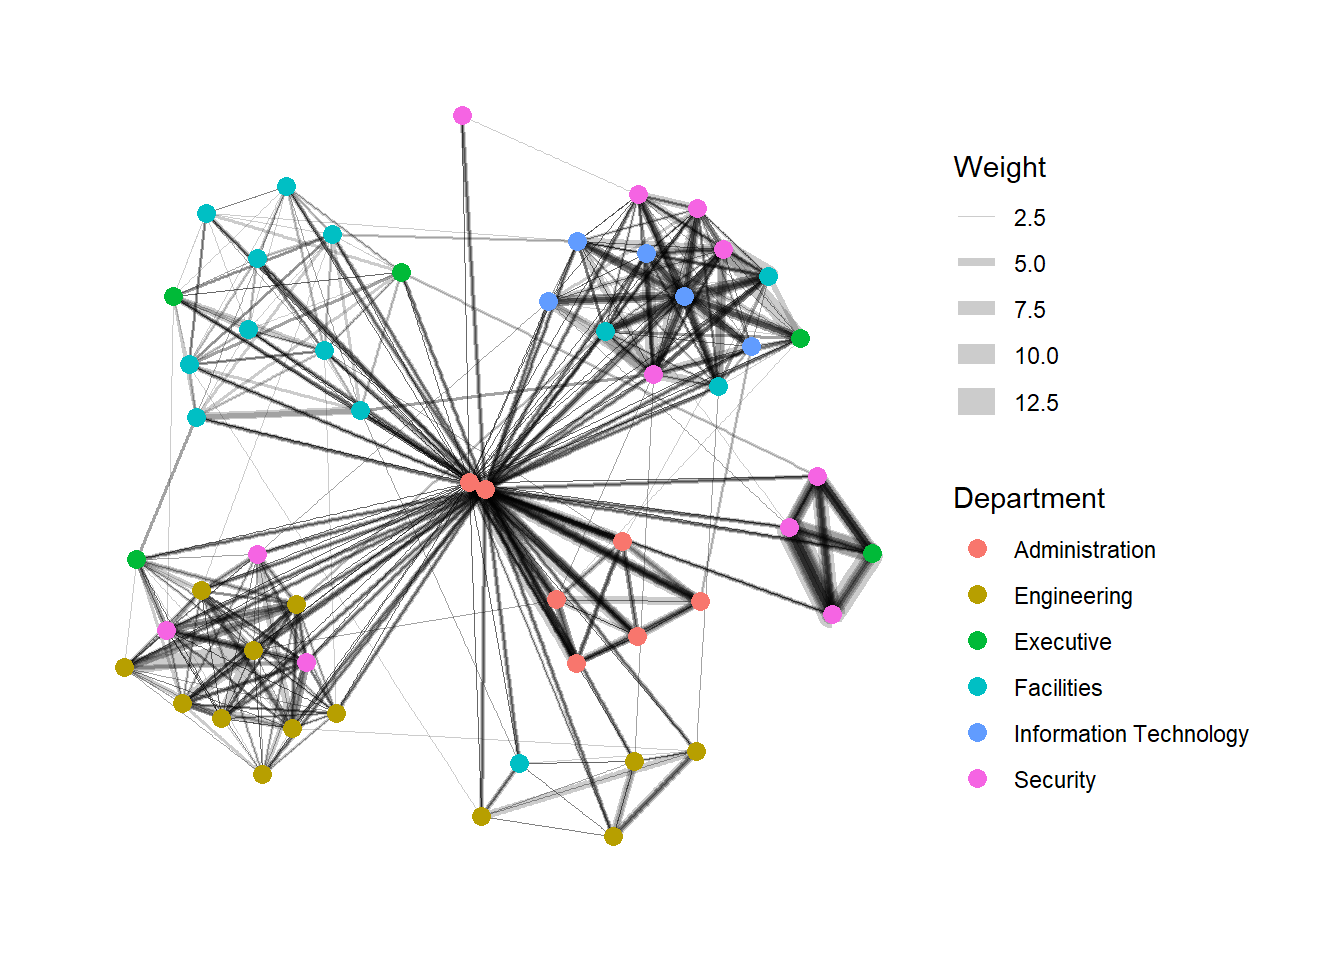
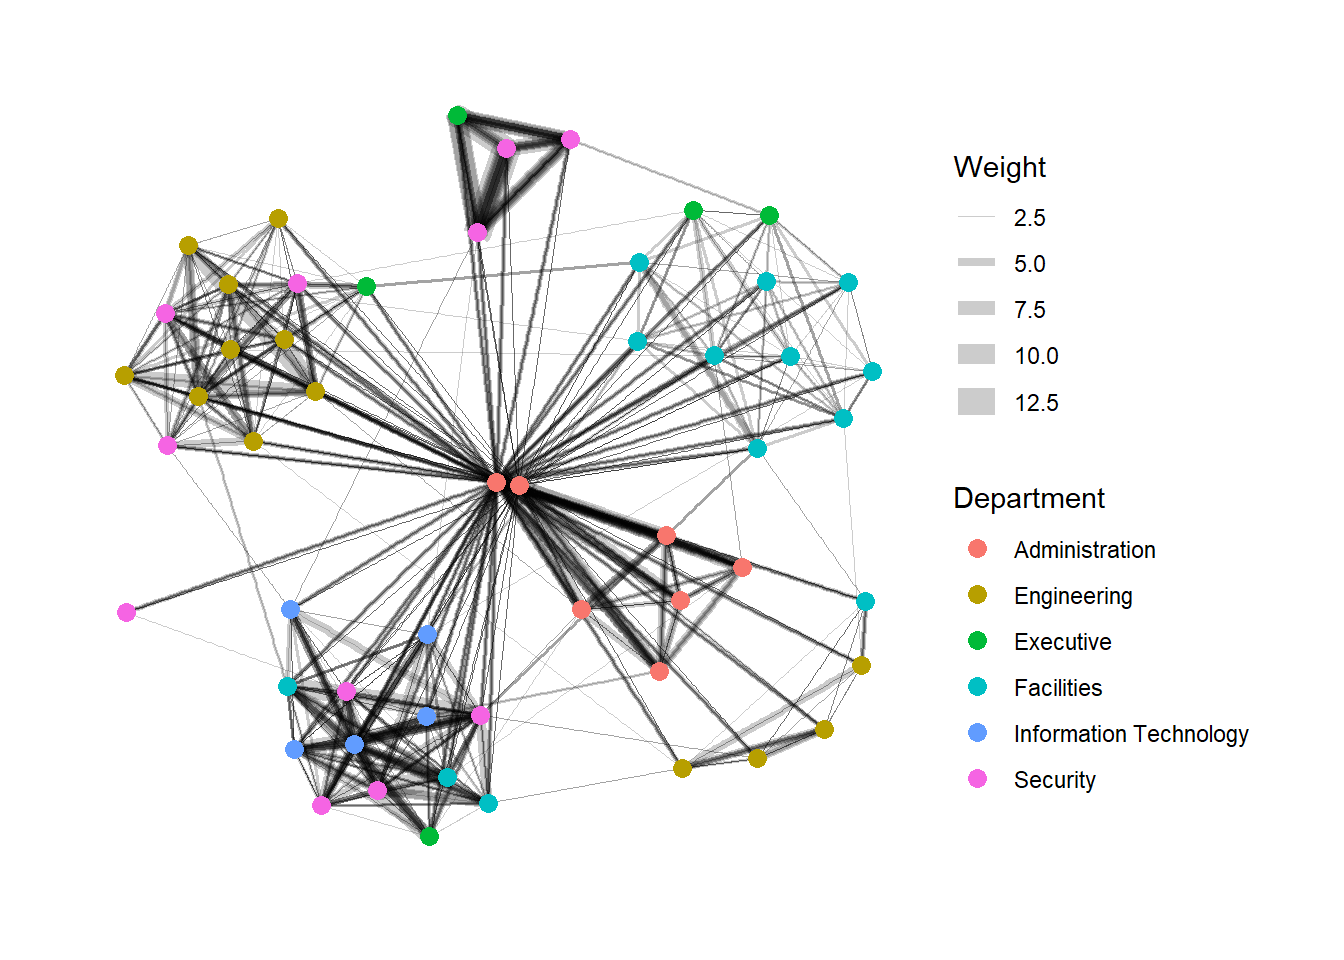
Amendment to In-class Exercise 8.

Changed region(s): [[0.0625, 0.0938, 0.6562, 0.875]]

diff --git a/_site/In-class_Ex/In-class_Ex08/In-class_Ex08.html b/_site/In-class_Ex/In-class_Ex08/In-class_Ex08.html
@@ -9,7 +9,7 @@
 <meta name="author" content="farrahmf">
 <meta name="dcterms.date" content="2023-03-11">
 
-<title>ISSS608-VAA - In-class Exercise 8</title>
+<title>ISSS608-VAA - Network Graphing</title>
 <style>
 code{white-space: pre-wrap;}
 span.smallcaps{font-variant: small-caps;}
@@ -288,7 +288,7 @@ code span.wa { color: #60a0b0; font-weight: bold; font-style: italic; } /* Warni
 
 <header id="title-block-header" class="quarto-title-block default">
 <div class="quarto-title">
-<h1 class="title">In-class Exercise 8</h1>
+<h1 class="title">Network Graphing</h1>
 </div>
 
 
@@ -504,8 +504,8 @@ Plotting the network graph:</p>
 <span id="cb13-7"><a href="#cb13-7" aria-hidden="true" tabindex="-1"></a>  <span class="fu">visLegend</span>() <span class="sc">%&gt;%</span></span>
 <span id="cb13-8"><a href="#cb13-8" aria-hidden="true" tabindex="-1"></a>  <span class="fu">visLayout</span>(<span class="at">randomSeed =</span> <span class="dv">123</span>)</span></code><button title="Copy to Clipboard" class="code-copy-button"><i class="bi"></i></button></pre></div>
 <div class="cell-output-display">
-<div id="htmlwidget-ef78fa575a77f785eb4f" style="width:100%;height:464px;" class="visNetwork html-widget"></div>
-<script type="application/json" data-for="htmlwidget-ef78fa575a77f785eb4f">{"x":{"nodes":{"id":[1,2,3,4,5,6,7,44,45,46,8,9,10,11,12,13,14,15,16,21,26,17,18,19,20,39,40,41,42,43,27,28,29,47,48,49,50,22,51,52,53,54,23,24,25,30,31,32,33,34,35,36,37,38],"label":["Mat.Bramar","Anda.Ribera","Rachel.Pantanal","Linda.Lagos","Ruscella.Mies.Haber","Carla.Forluniau","Cornelia.Lais","Kanon.Herrero","Varja.Lagos","Stenig.Fusil","Marin.Onda","Axel.Calzas","Brand.Tempestad","Elsa.Orilla","Isande.Borrasca","Kare.Orilla","Felix.Balas","Lars.Azada","Lidelse.Dedos","Willem.Vasco-Pais","Bertrand.Ovan","Adra.Nubarron","Birgitta.Frente","Gustav.Cazar","Vira.Frente","Linnea.Bergen","Lucas.Alcazar","Isak.Baza","Nils.Calixto","Sven.Flecha","Emile.Arpa","Varro.Awelon","Dante.Coginian","Edvard.Vann","Hennie.Osvaldo","Isia.Vann","Minke.Mies","Sten.Sanjorge.Jr","Felix.Resumir","Hideki.Cocinaro","Inga.Ferro","Loreto.Bodrogi","Ingrid.Barranco","Ada.Campo-Corrente","Orhan.Strum","Adan.Morlun","Albina.Hafon","Benito.Hawelon","Cecilia.Morluniau","Claudio.Hawelon","Dylan.Scozzese","Henk.Mies","Irene.Nant","Valeria.Morlun"],"group":["Administration","Administration","Administration","Administration","Administration","Administration","Administration","Security","Security","Security","Engineering","Engineering","Engineering","Engineering","Engineering","Engineering","Engineering","Engineering","Engineering","Executive","Facilities","Engineering","Engineering","Engineering","Engineering","Information Technology","Information Technology","Information Technology","Information Technology","Information Technology","Facilities","Facilities","Facilities","Security","Security","Security","Security","Executive","Security","Security","Security","Security","Executive","Executive","Executive","Facilities","Facilities","Facilities","Facilities","Facilities","Facilities","Facilities","Facilities","Facilities"],"Title":["Assistant to CEO","Assistant to CFO","Assistant to CIO","Assistant to COO","Assistant to Engineering Group Manager","Assistant to IT Group Manager","Assistant to Security Group Manager","Badging Office","Badging Office","Building Control","Drill Site Manager","Drill Technician","Drill Technician","Drill Technician","Drill Technician","Drill Technician","Engineer","Engineer","Engineering Group Manager","Environmental Safety Advisor","Facilities Group Manager","Geologist","Geologist","Hydraulic Technician","Hydraulic Technician","IT Group Manager","IT Helpdesk","IT Technician","IT Technician","IT Technician","Janitor","Janitor","Lead Janitor","Perimeter Control","Perimeter Control","Perimeter Control","Perimeter Control","President/CEO","Security Group Manager","Site Control","Site Control","Site Control","SVP/CFO","SVP/CIO","SVP/COO","Truck Driver","Truck Driver","Truck Driver","Truck Driver","Truck Driver","Truck Driver","Truck Driver","Truck Driver","Truck Driver"],"x":[0.0184565487593242,-0.220076309728791,0.00241033602101903,-0.373398791168598,-0.0713464021162346,0.0425778714897942,-0.168877177480195,0.394549976896101,-0.0762434668104049,0.208571287345336,-0.610243173715873,-0.665524606543794,-0.797312857474996,-0.525076807598829,-0.785562643588528,-0.909997256777234,-0.988720989616903,-0.690182164214748,-0.838537047181852,-0.500686382058651,0.92693292314733,-0.155438354721551,-1,-0.941692956186346,-0.661073974553663,1,0.132727384148816,0.735304848547935,0.72183607843353,0.907996412295163,0.333061414293935,0.616460346591083,0.633561761594523,0.0466004639988846,0.0638477465644132,0.249633592829482,-0.244030917120252,-0.375544380624469,0.433603251247177,0.0390539659651963,0.0389425390651605,0.0653026028188319,-0.008204401517386,-0.718141867515827,-0.54581222267426,0.729389620937756,0.663337574336146,0.409340375138137,0.784220819547146,0.605969724765767,0.89085372623158,0.423069189068893,0.85457379523886,0.465612980121064],"y":[0.148417330907002,0.710508365181443,0.646707910983451,0.938895735307844,-0.0235135130636795,1,0.883863824037004,-0.902365975235881,-0.896713630939828,-0.968595552532855,0.515388633418979,0.0202485161792809,0.488667911933539,0.338376894256195,-0.167183584275518,0.387880773161319,0.256777134032864,0.282379039510021,0.150519900700682,-0.760753580787104,0.258556189237553,0.074407936263162,0.0759955881958174,-0.0805044557310568,-0.155319365985594,-0.172618941349859,0.0137674094485183,-0.76632955340898,-0.508595066919257,-0.510655620086305,0.704747443463892,0.816212887752333,0.137522951251581,-0.0880826176885764,-0.16611934135462,-0.659870728111292,-0.845178818299765,-0.517078763413826,-0.652535780368071,-0.498603479878133,-0.694611045193355,-1,0.020269668453313,-0.628343858613809,-0.931044347903111,0.662217915763157,0.42383049313929,0.553593852683695,0.311155070758556,0.562213484428142,0.502193456575671,0.259143965204574,0.696400046991486,0.858028353595403]},"edges":{"from":[1,1,1,1,1,1,1,1,1,1,1,1,1,1,1,1,1,1,1,1,1,1,1,1,1,1,1,1,1,1,1,1,1,1,1,1,1,1,1,1,1,1,1,1,1,1,1,1,1,1,1,1,1,2,2,2,2,2,2,2,2,2,3,3,3,3,3,3,3,4,4,4,4,4,4,5,5,5,5,5,5,5,5,5,5,5,5,5,5,5,5,5,5,5,5,5,5,5,5,5,5,5,5,5,5,5,5,5,5,5,5,5,5,5,5,5,5,5,5,5,5,5,5,5,5,5,5,5,6,6,6,6,6,6,6,7,7,7,7,7,7,8,8,8,8,8,8,8,8,8,8,8,8,8,9,9,9,9,9,9,9,9,9,9,9,9,9,10,10,10,10,10,10,10,10,10,10,10,10,11,11,11,11,11,11,11,11,11,11,11,11,11,12,12,12,12,12,12,12,12,12,12,12,12,12,13,13,13,13,13,13,13,13,13,13,13,13,14,14,14,14,14,14,14,14,14,14,14,14,15,15,15,15,15,15,15,15,15,15,15,15,15,16,16,16,16,16,16,16,16,16,16,16,16,17,17,17,17,17,17,17,17,17,17,17,17,17,17,17,17,17,17,17,17,17,17,17,17,17,17,17,17,17,17,17,17,17,17,17,17,17,17,17,17,17,17,17,17,17,17,17,17,17,17,17,17,17,18,18,18,18,18,18,18,18,18,18,18,19,19,19,19,19,19,19,19,19,19,19,19,20,20,20,20,20,20,20,20,20,20,20,20,20,21,21,21,21,21,22,22,22,22,22,23,23,23,23,23,23,23,23,23,23,23,23,23,23,23,23,23,23,23,23,23,23,23,23,23,23,23,23,23,23,23,23,23,23,23,23,23,23,23,23,23,23,23,23,23,23,23,23,23,23,23,23,23,24,24,24,24,24,25,25,25,25,25,26,26,26,26,26,26,26,26,26,26,26,26,27,27,27,27,27,27,27,27,27,27,27,27,27,28,28,28,28,28,28,28,28,28,28,28,28,28,29,29,29,29,29,29,29,29,29,29,29,29,29,29,29,29,30,30,30,30,30,30,30,30,30,30,30,30,31,31,31,31,31,31,31,31,31,31,31,31,32,32,32,32,32,32,32,32,32,32,32,32,32,33,33,33,33,33,33,33,33,33,33,33,33,33,34,34,34,34,34,34,34,34,34,34,34,35,35,35,35,35,35,35,35,35,35,35,35,36,36,36,36,36,36,36,36,36,36,36,36,36,36,36,37,37,37,37,37,37,37,37,37,37,37,37,38,38,38,38,38,38,38,38,38,39,40,40,40,40,40,40,40,40,40,40,40,40,40,40,40,40,40,40,40,40,40,40,40,40,40,40,40,40,40,40,40,40,40,40,40,40,40,40,40,40,40,40,40,40,40,40,40,40,40,40,40,40,40,41,41,41,42,42,42,42,43,43,43,44,44,44,44,44,44,44,44,44,44,44,45,45,45,45,45,45,45,45,45,45,46,46,46,46,46,46,46,46,46,46,47,47,47,47,47,47,47,47,47,47,47,47,47,47,47,47,47,47,47,47,47,47,47,47,47,47,47,47,47,47,47,47,47,47,47,47,47,47,47,47,47,47,47,47,47,47,47,47,47,47,47,47,47,48,48,48,48,48,48,48,48,48,48,48,48,48,48,48,48,48,48,48,48,48,48,48,48,48,48,48,48,48,48,48,48,48,48,48,48,48,48,48,48,48,48,48,48,48,48,48,48,48,48,48,48,48,49,49,49,49,49,49,49,50,50,50,50,50,50,51,51,51,51,51,51,51,51,51,51,51,52,52,52,52,52,52,52,52,52,52,52,52,53,53,53,53,53,53,53,53,53,53,53,53,54,54,54,54,54,54,54,54,54,54,54],"to":[2,3,4,5,6,7,8,9,10,11,12,13,14,15,16,17,18,19,20,21,22,23,24,25,26,27,28,29,30,31,32,33,34,35,36,37,38,39,40,41,42,43,44,45,46,47,48,49,50,51,52,53,54,1,3,4,5,6,7,15,36,38,1,2,4,5,6,7,48,1,2,3,5,6,7,1,2,3,4,6,7,8,9,10,11,12,13,14,15,16,17,18,19,20,21,22,23,24,25,26,27,28,29,30,31,32,33,34,35,36,37,38,39,40,41,42,43,44,45,46,47,48,49,50,51,52,53,54,1,2,3,4,5,7,28,1,2,3,4,5,6,9,10,11,12,13,14,15,16,17,18,19,20,27,8,10,11,12,13,14,15,16,17,18,19,20,45,8,9,11,12,13,14,15,16,17,18,19,20,8,9,10,12,13,14,15,16,17,18,19,20,32,8,9,10,11,13,14,15,16,17,18,19,20,52,8,9,10,11,12,14,15,16,17,18,19,20,8,9,10,11,12,13,15,16,17,18,19,20,2,8,9,10,11,12,13,14,16,17,18,19,20,8,9,10,11,12,13,14,15,17,18,19,20,1,2,3,4,5,6,7,8,9,10,11,12,13,14,15,16,18,19,20,21,22,23,24,25,26,27,28,29,30,31,32,33,34,35,36,37,38,39,40,41,42,43,44,45,46,47,48,49,50,51,52,53,54,8,9,10,11,12,13,14,15,17,19,20,8,9,10,11,12,13,14,15,16,17,18,20,8,9,10,11,12,13,14,15,16,17,18,19,50,22,23,24,25,53,21,23,24,25,36,1,2,3,4,5,6,7,8,9,10,11,12,13,14,15,16,17,18,19,20,21,22,24,25,26,27,28,29,30,31,32,33,34,35,36,37,38,39,40,41,42,43,44,45,46,47,48,49,50,51,52,53,54,5,21,22,23,25,21,22,23,24,46,27,28,29,30,31,32,33,34,35,36,37,38,8,28,29,30,31,32,33,34,35,36,37,38,40,6,26,27,29,30,31,32,33,34,35,36,37,38,1,26,27,28,30,31,32,33,34,35,36,37,38,40,51,52,26,27,28,29,31,32,33,34,35,36,37,38,3,27,28,29,30,32,33,34,35,36,37,38,11,26,27,28,29,30,31,33,34,35,36,37,38,23,26,27,28,29,30,31,32,34,35,36,37,38,27,28,29,30,31,32,33,35,36,37,38,26,27,28,29,30,31,32,33,34,36,37,38,2,22,26,27,28,29,30,31,32,33,34,35,37,38,53,26,27,28,29,30,31,32,33,34,35,36,38,27,28,29,30,31,32,34,35,36,34,1,2,3,4,5,6,7,8,9,10,11,12,13,14,15,16,17,18,19,20,21,22,23,24,25,26,27,28,29,30,31,32,33,34,35,36,37,38,39,41,42,43,44,45,46,47,48,49,50,51,52,53,54,40,42,43,40,41,43,44,40,41,42,42,45,46,47,48,49,50,51,52,53,54,44,46,47,48,49,50,51,52,53,54,44,45,47,48,49,50,51,52,53,54,1,2,3,4,5,6,7,8,9,10,11,12,13,14,15,16,17,18,19,20,21,22,23,24,25,26,27,28,29,30,31,32,33,34,35,36,37,38,39,40,41,42,43,44,45,46,48,49,50,51,52,53,54,1,2,3,4,5,6,7,8,9,10,11,12,13,14,15,16,17,18,19,20,21,22,23,24,25,26,27,28,29,30,31,32,33,34,35,36,37,38,39,40,41,42,43,44,45,46,47,49,50,51,52,53,54,3,45,46,47,48,52,54,5,20,48,49,53,54,29,44,45,46,47,48,49,50,52,53,54,7,12,29,44,45,46,47,48,49,50,51,53,5,21,36,44,45,47,48,49,50,51,52,54,5,44,45,46,47,48,49,50,51,52,53],"weight":[21,21,21,21,21,21,15,15,15,15,15,15,15,15,15,15,15,15,15,15,15,15,15,15,15,15,15,16,15,15,15,15,15,15,15,15,15,15,15,15,15,15,15,15,15,15,15,15,15,15,15,15,15,6,6,6,6,6,9,2,2,2,8,8,8,8,8,8,2,12,12,12,12,12,12,20,20,20,20,20,20,10,10,10,10,10,10,10,10,10,10,10,10,10,10,10,10,11,10,10,10,10,10,10,10,10,10,10,10,10,10,10,10,10,10,10,10,10,10,10,10,11,11,11,10,10,11,11,11,11,11,11,11,11,3,12,15,12,12,12,12,3,4,3,3,4,4,3,3,4,3,4,3,3,4,4,9,4,7,7,11,5,4,5,6,8,3,8,8,7,9,9,6,9,10,10,7,5,7,11,10,11,6,11,7,11,9,10,7,10,8,3,9,10,8,8,11,6,7,5,3,6,5,6,2,9,5,10,7,7,4,3,4,7,2,3,3,6,5,7,4,6,6,7,5,7,6,3,4,3,6,13,8,8,5,6,6,11,9,6,2,7,6,8,7,5,5,7,6,7,7,5,4,6,2,2,2,2,2,2,2,6,4,7,7,6,6,6,6,5,5,4,4,2,2,2,2,2,2,2,2,2,2,2,2,2,2,2,2,2,2,2,2,2,2,2,2,2,2,2,2,2,2,2,2,2,2,3,3,4,5,3,3,2,5,2,3,2,4,8,5,9,6,5,4,10,7,4,4,5,5,10,5,7,4,5,4,4,4,3,2,4,3,4,2,4,7,2,7,5,10,4,2,4,4,4,4,4,4,4,4,4,4,4,4,6,4,4,4,4,4,4,4,6,10,17,9,4,4,4,4,4,4,4,5,4,4,4,4,4,4,4,4,4,4,4,4,4,4,4,4,4,4,4,4,4,2,5,9,7,3,8,2,3,4,2,26,25,25,25,25,25,24,25,25,26,25,26,3,4,3,6,4,3,3,6,5,3,4,5,3,3,2,3,6,5,8,6,6,7,4,6,6,6,2,2,6,5,7,5,6,5,7,6,6,5,5,3,2,3,3,5,7,9,12,9,9,6,13,12,9,11,2,5,4,6,6,9,7,6,12,7,7,8,4,2,8,6,9,7,10,7,9,6,10,5,8,2,4,2,3,5,7,8,4,7,5,7,6,4,5,6,4,7,8,5,9,6,6,10,6,3,11,7,9,11,15,7,11,11,9,13,13,2,2,3,12,11,12,16,15,19,12,11,14,11,13,3,3,4,5,6,7,7,6,9,10,7,5,3,2,5,5,2,2,2,4,4,3,2,2,2,2,2,2,2,2,2,2,2,2,2,2,2,2,2,2,2,2,2,2,2,2,2,2,2,4,2,3,2,2,2,2,2,2,2,2,2,2,40,22,30,2,2,2,2,2,2,2,2,2,2,2,28,19,24,25,19,28,2,15,16,24,3,4,2,5,6,2,5,5,2,6,3,6,4,2,6,5,5,4,7,5,6,6,3,4,9,5,6,8,7,4,6,2,2,2,2,2,2,2,2,2,2,2,2,2,2,2,2,2,2,2,2,2,2,2,2,2,2,2,2,2,2,2,2,2,2,2,3,2,2,2,2,2,2,2,5,4,3,7,5,6,6,5,5,5,2,2,4,2,4,2,2,2,2,2,2,2,2,3,2,2,2,2,2,2,2,2,2,2,2,2,2,2,2,2,2,2,2,2,2,2,2,2,2,2,2,2,2,4,4,5,3,8,6,5,5,5,6,2,3,2,3,3,4,2,2,4,2,2,5,2,3,3,3,3,4,4,2,3,3,3,3,2,2,4,2,4,4,3,4,5,3,2,4,3,3,4,3,3,2,5,4,8,2,2,5,2,3,4,3,2,5,4,4,2,3,4]},"nodesToDataframe":true,"edgesToDataframe":true,"options":{"width":"100%","height":"100%","nodes":{"shape":"dot","physics":false},"manipulation":{"enabled":false},"edges":{"smooth":false},"physics":{"stabilization":false},"layout":{"randomSeed":123}},"groups":["Administration","Security","Engineering","Executive","Facilities","Information Technology"],"width":null,"height":null,"idselection":{"enabled":false},"byselection":{"enabled":false},"main":null,"submain":null,"footer":null,"background":"rgba(0, 0, 0, 0)","igraphlayout":{"type":"square"},"legend":{"width":0.2,"useGroups":true,"position":"left","ncol":1,"stepX":100,"stepY":100,"zoom":true}},"evals":[],"jsHooks":[]}</script>
+<div id="htmlwidget-269d0491d1a39c2b927b" style="width:100%;height:464px;" class="visNetwork html-widget"></div>
+<script type="application/json" data-for="htmlwidget-269d0491d1a39c2b927b">{"x":{"nodes":{"id":[1,2,3,4,5,6,7,44,45,46,8,9,10,11,12,13,14,15,16,21,26,17,18,19,20,39,40,41,42,43,27,28,29,47,48,49,50,22,51,52,53,54,23,24,25,30,31,32,33,34,35,36,37,38],"label":["Mat.Bramar","Anda.Ribera","Rachel.Pantanal","Linda.Lagos","Ruscella.Mies.Haber","Carla.Forluniau","Cornelia.Lais","Kanon.Herrero","Varja.Lagos","Stenig.Fusil","Marin.Onda","Axel.Calzas","Brand.Tempestad","Elsa.Orilla","Isande.Borrasca","Kare.Orilla","Felix.Balas","Lars.Azada","Lidelse.Dedos","Willem.Vasco-Pais","Bertrand.Ovan","Adra.Nubarron","Birgitta.Frente","Gustav.Cazar","Vira.Frente","Linnea.Bergen","Lucas.Alcazar","Isak.Baza","Nils.Calixto","Sven.Flecha","Emile.Arpa","Varro.Awelon","Dante.Coginian","Edvard.Vann","Hennie.Osvaldo","Isia.Vann","Minke.Mies","Sten.Sanjorge.Jr","Felix.Resumir","Hideki.Cocinaro","Inga.Ferro","Loreto.Bodrogi","Ingrid.Barranco","Ada.Campo-Corrente","Orhan.Strum","Adan.Morlun","Albina.Hafon","Benito.Hawelon","Cecilia.Morluniau","Claudio.Hawelon","Dylan.Scozzese","Henk.Mies","Irene.Nant","Valeria.Morlun"],"group":["Administration","Administration","Administration","Administration","Administration","Administration","Administration","Security","Security","Security","Engineering","Engineering","Engineering","Engineering","Engineering","Engineering","Engineering","Engineering","Engineering","Executive","Facilities","Engineering","Engineering","Engineering","Engineering","Information Technology","Information Technology","Information Technology","Information Technology","Information Technology","Facilities","Facilities","Facilities","Security","Security","Security","Security","Executive","Security","Security","Security","Security","Executive","Executive","Executive","Facilities","Facilities","Facilities","Facilities","Facilities","Facilities","Facilities","Facilities","Facilities"],"Title":["Assistant to CEO","Assistant to CFO","Assistant to CIO","Assistant to COO","Assistant to Engineering Group Manager","Assistant to IT Group Manager","Assistant to Security Group Manager","Badging Office","Badging Office","Building Control","Drill Site Manager","Drill Technician","Drill Technician","Drill Technician","Drill Technician","Drill Technician","Engineer","Engineer","Engineering Group Manager","Environmental Safety Advisor","Facilities Group Manager","Geologist","Geologist","Hydraulic Technician","Hydraulic Technician","IT Group Manager","IT Helpdesk","IT Technician","IT Technician","IT Technician","Janitor","Janitor","Lead Janitor","Perimeter Control","Perimeter Control","Perimeter Control","Perimeter Control","President/CEO","Security Group Manager","Site Control","Site Control","Site Control","SVP/CFO","SVP/CIO","SVP/COO","Truck Driver","Truck Driver","Truck Driver","Truck Driver","Truck Driver","Truck Driver","Truck Driver","Truck Driver","Truck Driver"],"x":[0.0619318714175605,0.555327773443,0.815538642933199,0.934242997216069,0.138984203015864,0.74113645702011,1,0.784803672537789,0.594012477420025,0.407135996854185,-0.694652482297952,-0.378849173246295,-0.788319133675463,-0.523237699405,-0.229004262517353,-0.79563927569086,-0.564050228400396,-0.2968112030716,-0.598822168788103,-0.585970532460997,-0.00512481273190557,-0.110882619983708,-0.39893541776013,-0.654738477423694,-0.122977114710762,-1,-0.0194945969298241,0.127805254796072,0.52903138367244,0.331944786333487,-0.326315428583918,0.164304401198448,0.219182507867763,0.0859796220550888,0.171627819748573,0.99530636831601,0.80720577340852,-0.736091526466995,0.799640121714397,0.561581828727225,0.539922893586527,0.829931463912564,-0.103725134019332,-0.901586940833432,-0.854190754699053,-0.17693253095932,0.292347094542208,-0.171148731554888,-0.197403384659867,-0.361714225305335,0.00747028616798073,0.0495956526709669,-0.397657841161937,0.312325891148985],"y":[0.072420241945826,0.280408942982149,0.413696674700336,0.294190501978734,0.0164432340676965,0.595857035686546,0.139761333559704,-0.646402605061506,-0.600320795841866,-0.531905039304818,-0.337140279606921,-0.686835520126779,-0.664648397997525,-0.359236623462442,-0.790192661075687,-0.507211592314172,-0.857243169413863,-0.482334864922371,-0.575539317768908,0.16466797262346,0.837843152245573,-0.136055240732692,-0.893145723176246,-0.74847870163623,-0.684495206187535,0.418917897928071,-0.0660774247307229,-1,-0.897687363175571,-0.988824388752696,0.526379850946588,0.905947933383095,0.519316015468105,-0.102828566291442,-0.0937409161455798,-0.250481896426205,-0.506521085025451,0.433150079384343,-0.115430081099156,-0.322429514741495,-0.0810720734318572,-0.340740763661161,0.036023658687202,0.169661417722901,-0.0455061900873895,0.964707674058657,0.86716965272447,0.582165436091794,0.785498809347784,0.875388255432622,1,0.603111063883243,0.726791508435089,0.726707795093708]},"edges":{"from":[1,1,1,1,1,1,1,1,1,1,1,1,1,1,1,1,1,1,1,1,1,1,1,1,1,1,1,1,1,1,1,1,1,1,1,1,1,1,1,1,1,1,1,1,1,1,1,1,1,1,1,1,1,2,2,2,2,2,2,2,2,2,3,3,3,3,3,3,3,4,4,4,4,4,4,5,5,5,5,5,5,5,5,5,5,5,5,5,5,5,5,5,5,5,5,5,5,5,5,5,5,5,5,5,5,5,5,5,5,5,5,5,5,5,5,5,5,5,5,5,5,5,5,5,5,5,5,5,6,6,6,6,6,6,6,7,7,7,7,7,7,8,8,8,8,8,8,8,8,8,8,8,8,8,9,9,9,9,9,9,9,9,9,9,9,9,9,10,10,10,10,10,10,10,10,10,10,10,10,11,11,11,11,11,11,11,11,11,11,11,11,11,12,12,12,12,12,12,12,12,12,12,12,12,12,13,13,13,13,13,13,13,13,13,13,13,13,14,14,14,14,14,14,14,14,14,14,14,14,15,15,15,15,15,15,15,15,15,15,15,15,15,16,16,16,16,16,16,16,16,16,16,16,16,17,17,17,17,17,17,17,17,17,17,17,17,17,17,17,17,17,17,17,17,17,17,17,17,17,17,17,17,17,17,17,17,17,17,17,17,17,17,17,17,17,17,17,17,17,17,17,17,17,17,17,17,17,18,18,18,18,18,18,18,18,18,18,18,19,19,19,19,19,19,19,19,19,19,19,19,20,20,20,20,20,20,20,20,20,20,20,20,20,21,21,21,21,21,22,22,22,22,22,23,23,23,23,23,23,23,23,23,23,23,23,23,23,23,23,23,23,23,23,23,23,23,23,23,23,23,23,23,23,23,23,23,23,23,23,23,23,23,23,23,23,23,23,23,23,23,23,23,23,23,23,23,24,24,24,24,24,25,25,25,25,25,26,26,26,26,26,26,26,26,26,26,26,26,27,27,27,27,27,27,27,27,27,27,27,27,27,28,28,28,28,28,28,28,28,28,28,28,28,28,29,29,29,29,29,29,29,29,29,29,29,29,29,29,29,29,30,30,30,30,30,30,30,30,30,30,30,30,31,31,31,31,31,31,31,31,31,31,31,31,32,32,32,32,32,32,32,32,32,32,32,32,32,33,33,33,33,33,33,33,33,33,33,33,33,33,34,34,34,34,34,34,34,34,34,34,34,35,35,35,35,35,35,35,35,35,35,35,35,36,36,36,36,36,36,36,36,36,36,36,36,36,36,36,37,37,37,37,37,37,37,37,37,37,37,37,38,38,38,38,38,38,38,38,38,39,40,40,40,40,40,40,40,40,40,40,40,40,40,40,40,40,40,40,40,40,40,40,40,40,40,40,40,40,40,40,40,40,40,40,40,40,40,40,40,40,40,40,40,40,40,40,40,40,40,40,40,40,40,41,41,41,42,42,42,42,43,43,43,44,44,44,44,44,44,44,44,44,44,44,45,45,45,45,45,45,45,45,45,45,46,46,46,46,46,46,46,46,46,46,47,47,47,47,47,47,47,47,47,47,47,47,47,47,47,47,47,47,47,47,47,47,47,47,47,47,47,47,47,47,47,47,47,47,47,47,47,47,47,47,47,47,47,47,47,47,47,47,47,47,47,47,47,48,48,48,48,48,48,48,48,48,48,48,48,48,48,48,48,48,48,48,48,48,48,48,48,48,48,48,48,48,48,48,48,48,48,48,48,48,48,48,48,48,48,48,48,48,48,48,48,48,48,48,48,48,49,49,49,49,49,49,49,50,50,50,50,50,50,51,51,51,51,51,51,51,51,51,51,51,52,52,52,52,52,52,52,52,52,52,52,52,53,53,53,53,53,53,53,53,53,53,53,53,54,54,54,54,54,54,54,54,54,54,54],"to":[2,3,4,5,6,7,8,9,10,11,12,13,14,15,16,17,18,19,20,21,22,23,24,25,26,27,28,29,30,31,32,33,34,35,36,37,38,39,40,41,42,43,44,45,46,47,48,49,50,51,52,53,54,1,3,4,5,6,7,15,36,38,1,2,4,5,6,7,48,1,2,3,5,6,7,1,2,3,4,6,7,8,9,10,11,12,13,14,15,16,17,18,19,20,21,22,23,24,25,26,27,28,29,30,31,32,33,34,35,36,37,38,39,40,41,42,43,44,45,46,47,48,49,50,51,52,53,54,1,2,3,4,5,7,28,1,2,3,4,5,6,9,10,11,12,13,14,15,16,17,18,19,20,27,8,10,11,12,13,14,15,16,17,18,19,20,45,8,9,11,12,13,14,15,16,17,18,19,20,8,9,10,12,13,14,15,16,17,18,19,20,32,8,9,10,11,13,14,15,16,17,18,19,20,52,8,9,10,11,12,14,15,16,17,18,19,20,8,9,10,11,12,13,15,16,17,18,19,20,2,8,9,10,11,12,13,14,16,17,18,19,20,8,9,10,11,12,13,14,15,17,18,19,20,1,2,3,4,5,6,7,8,9,10,11,12,13,14,15,16,18,19,20,21,22,23,24,25,26,27,28,29,30,31,32,33,34,35,36,37,38,39,40,41,42,43,44,45,46,47,48,49,50,51,52,53,54,8,9,10,11,12,13,14,15,17,19,20,8,9,10,11,12,13,14,15,16,17,18,20,8,9,10,11,12,13,14,15,16,17,18,19,50,22,23,24,25,53,21,23,24,25,36,1,2,3,4,5,6,7,8,9,10,11,12,13,14,15,16,17,18,19,20,21,22,24,25,26,27,28,29,30,31,32,33,34,35,36,37,38,39,40,41,42,43,44,45,46,47,48,49,50,51,52,53,54,5,21,22,23,25,21,22,23,24,46,27,28,29,30,31,32,33,34,35,36,37,38,8,28,29,30,31,32,33,34,35,36,37,38,40,6,26,27,29,30,31,32,33,34,35,36,37,38,1,26,27,28,30,31,32,33,34,35,36,37,38,40,51,52,26,27,28,29,31,32,33,34,35,36,37,38,3,27,28,29,30,32,33,34,35,36,37,38,11,26,27,28,29,30,31,33,34,35,36,37,38,23,26,27,28,29,30,31,32,34,35,36,37,38,27,28,29,30,31,32,33,35,36,37,38,26,27,28,29,30,31,32,33,34,36,37,38,2,22,26,27,28,29,30,31,32,33,34,35,37,38,53,26,27,28,29,30,31,32,33,34,35,36,38,27,28,29,30,31,32,34,35,36,34,1,2,3,4,5,6,7,8,9,10,11,12,13,14,15,16,17,18,19,20,21,22,23,24,25,26,27,28,29,30,31,32,33,34,35,36,37,38,39,41,42,43,44,45,46,47,48,49,50,51,52,53,54,40,42,43,40,41,43,44,40,41,42,42,45,46,47,48,49,50,51,52,53,54,44,46,47,48,49,50,51,52,53,54,44,45,47,48,49,50,51,52,53,54,1,2,3,4,5,6,7,8,9,10,11,12,13,14,15,16,17,18,19,20,21,22,23,24,25,26,27,28,29,30,31,32,33,34,35,36,37,38,39,40,41,42,43,44,45,46,48,49,50,51,52,53,54,1,2,3,4,5,6,7,8,9,10,11,12,13,14,15,16,17,18,19,20,21,22,23,24,25,26,27,28,29,30,31,32,33,34,35,36,37,38,39,40,41,42,43,44,45,46,47,49,50,51,52,53,54,3,45,46,47,48,52,54,5,20,48,49,53,54,29,44,45,46,47,48,49,50,52,53,54,7,12,29,44,45,46,47,48,49,50,51,53,5,21,36,44,45,47,48,49,50,51,52,54,5,44,45,46,47,48,49,50,51,52,53],"weight":[21,21,21,21,21,21,15,15,15,15,15,15,15,15,15,15,15,15,15,15,15,15,15,15,15,15,15,16,15,15,15,15,15,15,15,15,15,15,15,15,15,15,15,15,15,15,15,15,15,15,15,15,15,6,6,6,6,6,9,2,2,2,8,8,8,8,8,8,2,12,12,12,12,12,12,20,20,20,20,20,20,10,10,10,10,10,10,10,10,10,10,10,10,10,10,10,10,11,10,10,10,10,10,10,10,10,10,10,10,10,10,10,10,10,10,10,10,10,10,10,10,11,11,11,10,10,11,11,11,11,11,11,11,11,3,12,15,12,12,12,12,3,4,3,3,4,4,3,3,4,3,4,3,3,4,4,9,4,7,7,11,5,4,5,6,8,3,8,8,7,9,9,6,9,10,10,7,5,7,11,10,11,6,11,7,11,9,10,7,10,8,3,9,10,8,8,11,6,7,5,3,6,5,6,2,9,5,10,7,7,4,3,4,7,2,3,3,6,5,7,4,6,6,7,5,7,6,3,4,3,6,13,8,8,5,6,6,11,9,6,2,7,6,8,7,5,5,7,6,7,7,5,4,6,2,2,2,2,2,2,2,6,4,7,7,6,6,6,6,5,5,4,4,2,2,2,2,2,2,2,2,2,2,2,2,2,2,2,2,2,2,2,2,2,2,2,2,2,2,2,2,2,2,2,2,2,2,3,3,4,5,3,3,2,5,2,3,2,4,8,5,9,6,5,4,10,7,4,4,5,5,10,5,7,4,5,4,4,4,3,2,4,3,4,2,4,7,2,7,5,10,4,2,4,4,4,4,4,4,4,4,4,4,4,4,6,4,4,4,4,4,4,4,6,10,17,9,4,4,4,4,4,4,4,5,4,4,4,4,4,4,4,4,4,4,4,4,4,4,4,4,4,4,4,4,4,2,5,9,7,3,8,2,3,4,2,26,25,25,25,25,25,24,25,25,26,25,26,3,4,3,6,4,3,3,6,5,3,4,5,3,3,2,3,6,5,8,6,6,7,4,6,6,6,2,2,6,5,7,5,6,5,7,6,6,5,5,3,2,3,3,5,7,9,12,9,9,6,13,12,9,11,2,5,4,6,6,9,7,6,12,7,7,8,4,2,8,6,9,7,10,7,9,6,10,5,8,2,4,2,3,5,7,8,4,7,5,7,6,4,5,6,4,7,8,5,9,6,6,10,6,3,11,7,9,11,15,7,11,11,9,13,13,2,2,3,12,11,12,16,15,19,12,11,14,11,13,3,3,4,5,6,7,7,6,9,10,7,5,3,2,5,5,2,2,2,4,4,3,2,2,2,2,2,2,2,2,2,2,2,2,2,2,2,2,2,2,2,2,2,2,2,2,2,2,2,4,2,3,2,2,2,2,2,2,2,2,2,2,40,22,30,2,2,2,2,2,2,2,2,2,2,2,28,19,24,25,19,28,2,15,16,24,3,4,2,5,6,2,5,5,2,6,3,6,4,2,6,5,5,4,7,5,6,6,3,4,9,5,6,8,7,4,6,2,2,2,2,2,2,2,2,2,2,2,2,2,2,2,2,2,2,2,2,2,2,2,2,2,2,2,2,2,2,2,2,2,2,2,3,2,2,2,2,2,2,2,5,4,3,7,5,6,6,5,5,5,2,2,4,2,4,2,2,2,2,2,2,2,2,3,2,2,2,2,2,2,2,2,2,2,2,2,2,2,2,2,2,2,2,2,2,2,2,2,2,2,2,2,2,4,4,5,3,8,6,5,5,5,6,2,3,2,3,3,4,2,2,4,2,2,5,2,3,3,3,3,4,4,2,3,3,3,3,2,2,4,2,4,4,3,4,5,3,2,4,3,3,4,3,3,2,5,4,8,2,2,5,2,3,4,3,2,5,4,4,2,3,4]},"nodesToDataframe":true,"edgesToDataframe":true,"options":{"width":"100%","height":"100%","nodes":{"shape":"dot","physics":false},"manipulation":{"enabled":false},"edges":{"smooth":false},"physics":{"stabilization":false},"layout":{"randomSeed":123}},"groups":["Administration","Security","Engineering","Executive","Facilities","Information Technology"],"width":null,"height":null,"idselection":{"enabled":false},"byselection":{"enabled":false},"main":null,"submain":null,"footer":null,"background":"rgba(0, 0, 0, 0)","igraphlayout":{"type":"square"},"legend":{"width":0.2,"useGroups":true,"position":"left","ncol":1,"stepX":100,"stepY":100,"zoom":true}},"evals":[],"jsHooks":[]}</script>
 </div>
 </div>
 
